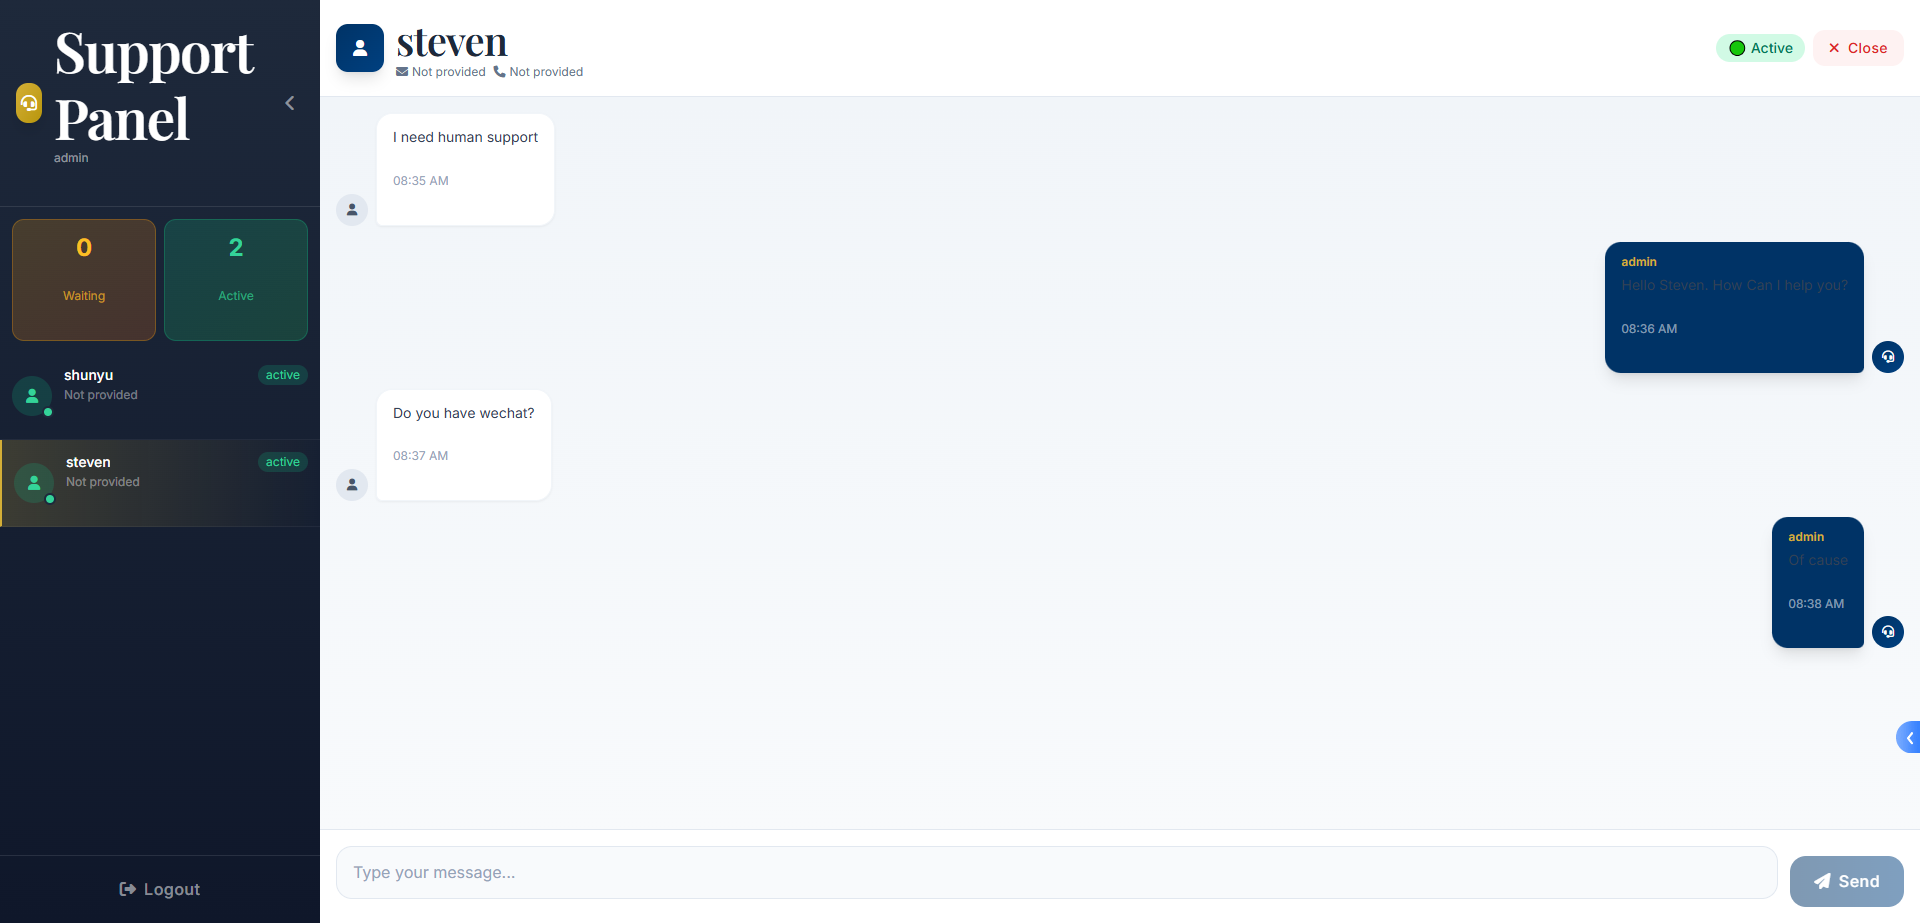
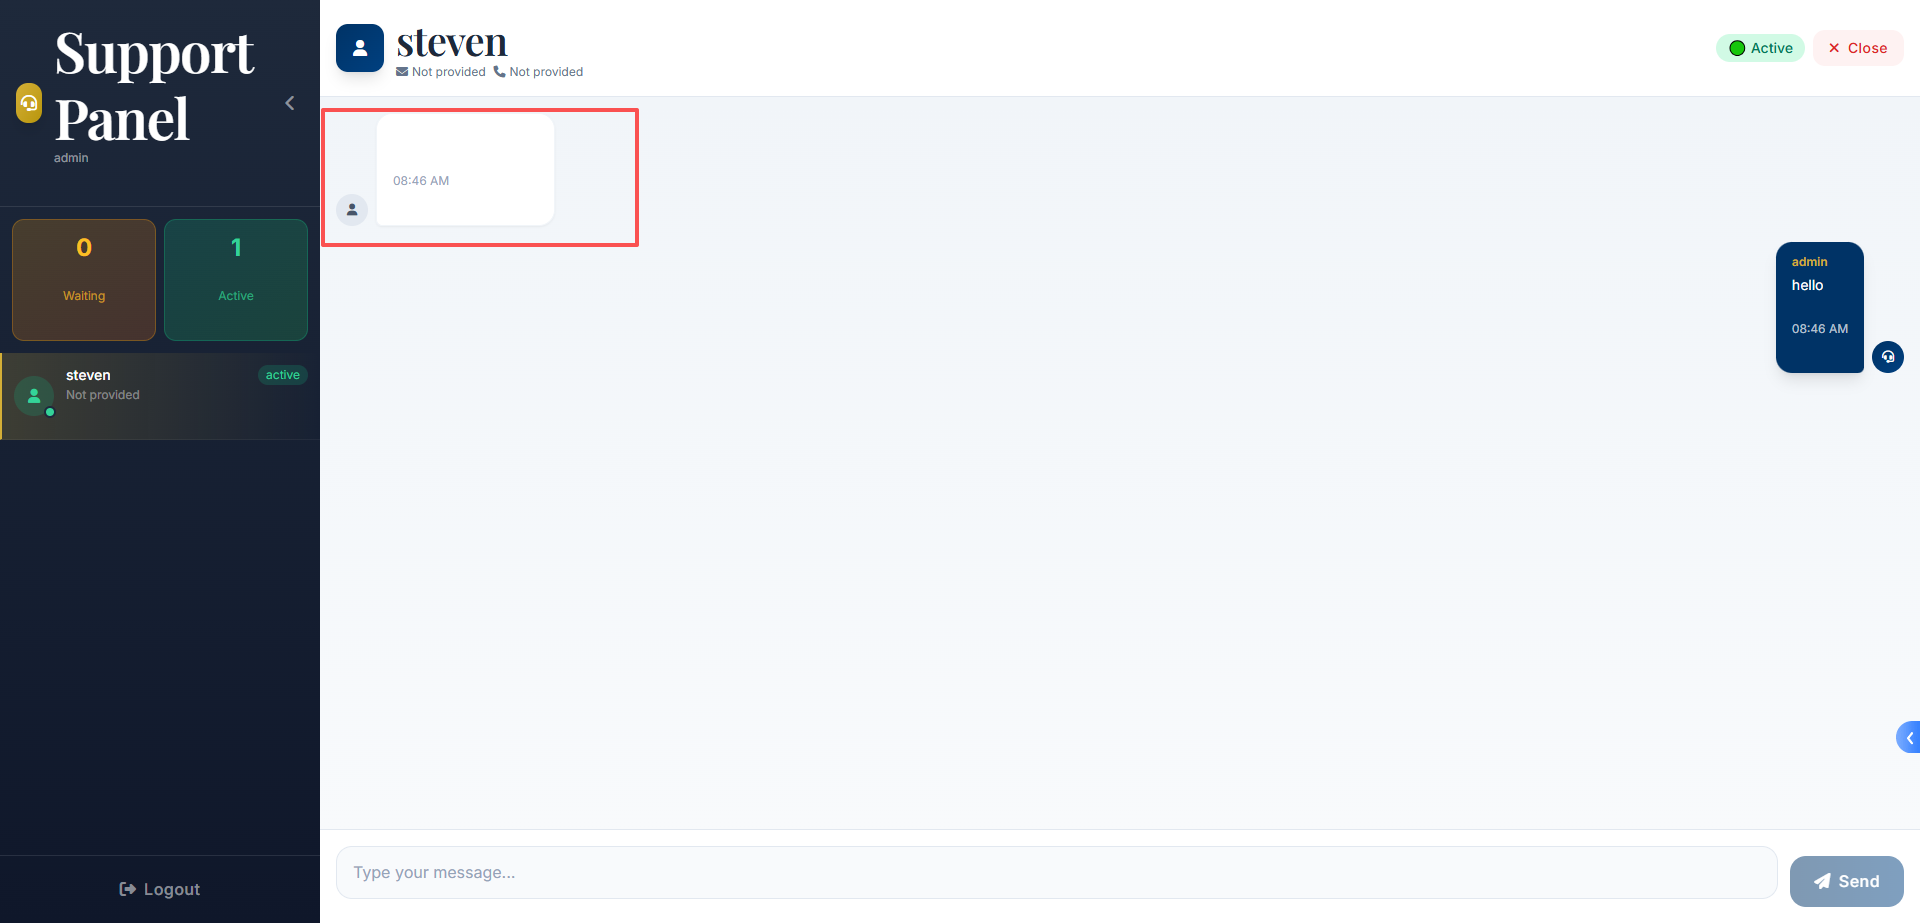
fix: 修复客服模块多个问题
1. 客户消息字体颜色: 访客消息使用黑色(text-slate-800),管理员消息使用白色
2. 关闭对话保留历史: 关闭后不清空消息,可查看历史记录
3. 飞书通知: 用户在人工模式下发消息会触发飞书通知
4. 业务逻辑优化: 已关闭会话禁用输入框,显示关闭提示

diff --git a/src/pages/AdminChat.tsx b/src/pages/AdminChat.tsx
@@ -159,8 +159,8 @@ const AdminChat = () => {
     if (confirm('Are you sure you want to close this chat?')) {
       try {
         await fetch(`/api/chat/sessions/${selectedSession.id}/close`, { method: 'POST' });
-        setSelectedSession(null);
-        setMessages([]);
+        // 更新本地状态，但保留消息历史供查看
+        setSelectedSession(prev => prev ? { ...prev, status: 'closed' } : null);
         fetchSessions();
       } catch (err) {
         console.error('Failed to close session:', err);
@@ -431,15 +431,17 @@ const AdminChat = () => {
                       </div>
                       <div className={`px-4 py-3 rounded-2xl ${
                         msg.sender_type === 'visitor'
-                          ? 'bg-white text-slate-800 rounded-bl-md shadow-sm border border-slate-100'
-                          : 'bg-[#003366] !text-white rounded-br-md shadow-lg'
+                          ? 'bg-white border border-slate-200 rounded-bl-md shadow-sm'
+                          : 'bg-[#003366] rounded-br-md shadow-lg'
                       }`}>
                         {msg.sender_type === 'admin' && (
-                          <p className="text-xs !text-[#D4AF37] mb-1 font-semibold">{msg.sender_name}</p>
+                          <p className="text-xs text-[#D4AF37] mb-1 font-semibold">{msg.sender_name}</p>
                         )}
-                        <p className="text-sm whitespace-pre-wrap leading-relaxed !text-white">{msg.message}</p>
+                        <p className={`text-sm whitespace-pre-wrap leading-relaxed ${
+                          msg.sender_type === 'visitor' ? 'text-slate-800' : 'text-white'
+                        }`}>{msg.message}</p>
                         <p className={`text-xs mt-1 ${
-                          msg.sender_type === 'visitor' ? 'text-slate-400' : '!text-white/70'
+                          msg.sender_type === 'visitor' ? 'text-slate-400' : 'text-white/60'
                         }`}>
                           {formatTime(msg.created_at)}
                         </p>
@@ -453,28 +455,35 @@ const AdminChat = () => {
 
             {/* Input */}
             <div className="p-4 bg-white border-t border-slate-200">
-              <div className="flex gap-3 items-end">
-                <div className="flex-1 relative">
-                  <textarea
-                    value={inputValue}
-                    onChange={(e) => setInputValue(e.target.value)}
-                    onKeyDown={handleKeyDown}
-                    placeholder="Type your message..."
-                    rows={1}
-                    className="w-full px-4 py-3 bg-slate-50 border border-slate-200 rounded-2xl text-slate-800 placeholder-slate-400 focus:outline-none focus:ring-2 focus:ring-[#003366]/30 focus:border-[#003366] resize-none transition-all"
-                    disabled={isLoading}
-                    style={{ minHeight: '48px', maxHeight: '120px' }}
-                  />
+              {selectedSession.status === 'closed' ? (
+                <div className="text-center py-3">
+                  <p className="text-slate-500 text-sm">🔒 This conversation has been closed</p>
+                  <p className="text-slate-400 text-xs mt-1">Messages are preserved for reference</p>
                 </div>
-                <button
-                  onClick={sendMessage}
-                  disabled={!inputValue.trim() || isLoading}
-                  className="px-6 py-3 bg-gradient-to-r from-[#003366] to-[#004080] text-white rounded-2xl font-medium hover:shadow-lg hover:shadow-[#003366]/30 transition-all disabled:opacity-50 disabled:hover:shadow-none flex items-center gap-2"
-                >
-                  <i className="fa-solid fa-paper-plane"></i>
-                  <span className="hidden sm:inline">Send</span>
-                </button>
-              </div>
+              ) : (
+                <div className="flex gap-3 items-end">
+                  <div className="flex-1 relative">
+                    <textarea
+                      value={inputValue}
+                      onChange={(e) => setInputValue(e.target.value)}
+                      onKeyDown={handleKeyDown}
+                      placeholder="Type your message..."
+                      rows={1}
+                      className="w-full px-4 py-3 bg-slate-50 border border-slate-200 rounded-2xl text-slate-800 placeholder-slate-400 focus:outline-none focus:ring-2 focus:ring-[#003366]/30 focus:border-[#003366] resize-none transition-all"
+                      disabled={isLoading}
+                      style={{ minHeight: '48px', maxHeight: '120px' }}
+                    />
+                  </div>
+                  <button
+                    onClick={sendMessage}
+                    disabled={!inputValue.trim() || isLoading}
+                    className="px-6 py-3 bg-gradient-to-r from-[#003366] to-[#004080] text-white rounded-2xl font-medium hover:shadow-lg hover:shadow-[#003366]/30 transition-all disabled:opacity-50 disabled:hover:shadow-none flex items-center gap-2"
+                  >
+                    <i className="fa-solid fa-paper-plane"></i>
+                    <span className="hidden sm:inline">Send</span>
+                  </button>
+                </div>
+              )}
             </div>
           </>
         ) : (

diff --git a/server.ts b/server.ts
@@ -798,7 +798,7 @@ app.post('/api/chat/sessions/:sessionId/close', async (req: Request, res: Respon
 // 人工客服消息 API - 用户发送消息（转人工后使用）
 app.post('/api/chat/human', async (req: Request, res: Response) => {
   try {
-    const { message, sessionId } = req.body;
+    const { message, sessionId, customerInfo } = req.body;
     
     if (!message) {
       return res.status(400).json({ error: 'Message is required' });
@@ -839,9 +839,58 @@ app.post('/api/chat/human', async (req: Request, res: Response) => {
       .update({ updated_at: new Date().toISOString() })
       .eq('id', sessionId);
 
+    // 发送飞书通知 - 提醒管理员有新消息
+    if (FEISHU_WEBHOOK_URL) {
+      const customerNo = existingSession.customer_no || `#${sessionId.substring(0, 8)}`;
+      const visitorName = existingSession.visitor_name || 'Visitor';
+      
+      const notification = {
+        msg_type: 'interactive',
+        card: {
+          header: { 
+            title: { tag: 'plain_text', content: `💬 新消息 ${customerNo}` }, 
+            template: 'blue' 
+          },
+          elements: [
+            { 
+              tag: 'div', 
+              text: { 
+                tag: 'lark_md', 
+                content: `**${visitorName}**: ${message.substring(0, 200)}${message.length > 200 ? '...' : ''}` 
+              } 
+            },
+            { tag: 'divider' },
+            { 
+              tag: 'action', 
+              actions: [
+                {
+                  tag: 'button',
+                  text: { tag: 'plain_text', content: '前往后台回复' },
+                  url: `${process.env.SITE_URL || 'https://cnspecialtyoils.com'}/admin/chat`,
+                  type: 'primary'
+                }
+              ]
+            }
+          ]
+        }
+      };
+
+      try {
+        await fetch(FEISHU_WEBHOOK_URL, {
+          method: 'POST',
+          headers: { 'Content-Type': 'application/json' },
+          body: JSON.stringify(notification)
+        });
+        console.log(`✅ Feishu notification sent for new message from ${customerNo}`);
+      } catch (feishuError) {
+        console.error('Failed to send Feishu notification:', feishuError);
+      }
+    }
+
     res.json({
       success: true,
-      message: 'Message sent'
+      message: 'Message sent',
+      session: existingSession
     });
   } catch (error) {
     console.error('Human chat error:', error);
